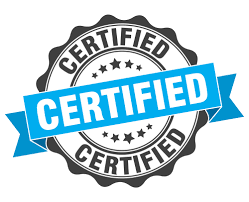
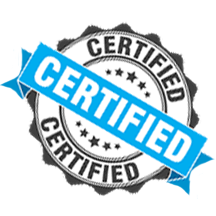
updated, squared, cleaned all badges

diff --git a/src/components/Profile.vue b/src/components/Profile.vue
@@ -39,7 +39,7 @@ export default {
     return {
       nickname: "nickname",
       name: "Name Surname",
-      badges: [ "beta-tester", "explorer"],// "certified", "one-year", "beta-tester", "explorer", "certified", "one-year" ],
+      badges: [ "beta-testing", "certified", "the-explorer", "top-contributor", "one-year-club"],
       profilePic: require("../assets/profile-pic.png"),
       userMessages: [],  // not mandatory...
       myMap: null
